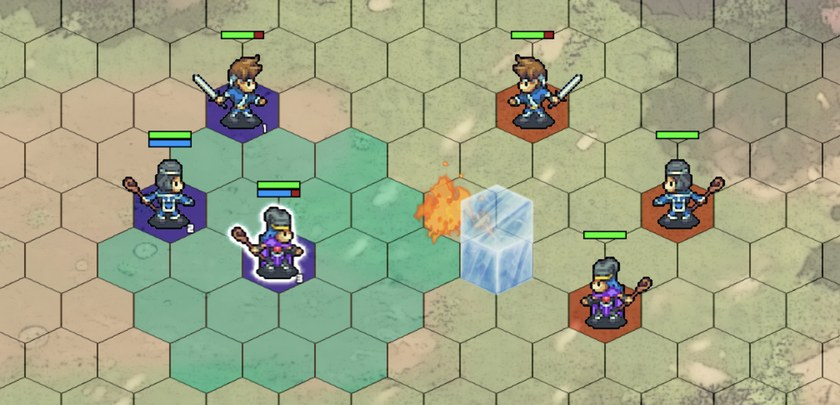
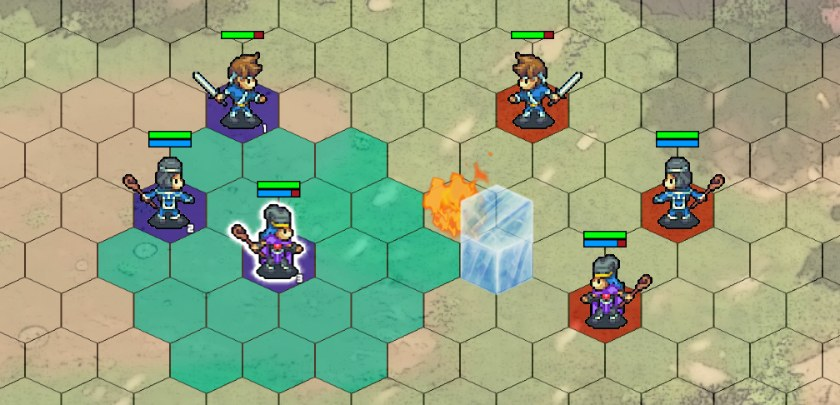
Show adversary mana bars (v0.8.0) (#82)
* Show adversary mana in combat and record public mana updates (v0.8.0)

* Exercise missing mana from older snapshots in desktop checks

* Initialize adversary spell lists so caster mana bars are visible

* Refresh guide illustration and remove temporary screenshot export

diff --git a/server/src/__tests__/actionValidation.test.ts b/server/src/__tests__/actionValidation.test.ts
@@ -87,7 +87,7 @@ afterEach(() => {
   finally {mock.restore();}
 });
 
-test('both teams disclose spell IDs in initial, reconnect, replay, and summoned-unit data', () => {
+test('both teams disclose spells and mana in initial, reconnect, replay, and summoned-unit data', () => {
   enemy.spells = [new Spell(getSpellById(8))];
   for (const reconnect of [false, true]) {
     for (const teamId of [1, 2]) {
@@ -95,12 +95,14 @@ test('both teams disclose spell IDs in initial, reconnect, replay, and summoned-
       expect(snapshot.player.team[0].spells).toEqual(teamId === 1 ? [0, 9] : [8]);
       expect(snapshot.opponent.team[0].spells).toEqual(teamId === 1 ? [8] : [0, 9]);
       expect(snapshot.opponent.team[0].inventory).toBeUndefined();
-      expect(snapshot.opponent.team[0].mp).toBeUndefined();
+      expect(snapshot.opponent.team[0].mp).toBe(100);
+      expect(snapshot.opponent.team[0].maxMP).toBe(100);
     }
   }
   game.saveInitialStateToReplay();
   expect(game.replayMessages[0].data.opponent.team[0].spells).toEqual([8]);
-  expect(enemy.getPlacementData(false).spells).toEqual([8]);
+  expect(enemy.getPlacementData(false)).toMatchObject({spells: [8], mp: 100, maxMP: 100});
+  expect(game.replayMessages[0].data.opponent.team[0]).toMatchObject({mp: 100, maxMP: 100});
 });
 
 const invalidActions = [
@@ -183,6 +185,8 @@ test('a valid spell spends MP once, locks the action during casting, and applies
   game.processAction('spell', data, socket);
   game.processAction('passTurn', null, socket);
   expect(player.getMP()).toBe(100 - player.spells[0].cost);
+  expect(game.replayMessages).toContainEqual(expect.objectContaining({event: 'manachange', data: {team: 1, num: 1, mp: player.getMP()}}));
+  expect(socket.emit).toHaveBeenCalledWith('mpchange', {num: 1, mp: player.getMP()});
   expect(player.hasActed).toBe(true);
   expect(player.team.actions).toBe(1);
   expect(player.team.spellCasts).toBe(1);
@@ -231,4 +235,25 @@ test('an attack that becomes movement and direct AI actions use the same accepta
   expect(enemy.hasActed).toBe(true);
   expect(enemy.team.actions).toBe(1);
   expect(game.turnSystem.processAction).toHaveBeenCalledTimes(2);
+});
+
+
+test('mana changes identify either team, reach the room and replay, and preserve legacy owner updates', () => {
+  const broadcast = spyOn(game, 'broadcast');
+  for (const team of [player.team, enemy.team]) {
+    game.emitMPchange(team, 1, 35);
+    expect(broadcast).toHaveBeenCalledWith('manachange', {team: team.id, num: 1, mp: 35});
+    expect(game.replayMessages.at(-1)).toMatchObject({event: 'manachange', data: {team: team.id, num: 1, mp: 35}});
+  }
+  expect(socket.emit).toHaveBeenCalledTimes(1);
+  expect(socket.emit).toHaveBeenCalledWith('mpchange', {num: 1, mp: 35});
+});
+
+test('Ether restoration is public and reconnect snapshots preserve the restored value', () => {
+  player.mp = 5;
+  player.inventory = [new Item(getConsumableById(1))];
+  game.processAction('useitem', {index: 0}, socket);
+  expect(player.mp).toBe(25);
+  expect(game.replayMessages).toContainEqual(expect.objectContaining({event: 'manachange', data: {team: 1, num: 1, mp: 25}}));
+  expect(game.getGameData(2, true).opponent.team[0]).toMatchObject({mp: 25, maxMP: 100});
 });

diff --git a/client/src/game/__tests__/enemyMana.test.ts b/client/src/game/__tests__/enemyMana.test.ts
@@ -1,0 +1,39 @@
+import {expect, test} from 'bun:test';
+import {readFileSync} from 'node:fs';
+import {runInNewContext} from 'node:vm';
+import ts from 'typescript';
+
+const source = ts.createSourceFile('Arena.ts', readFileSync(new URL('../Arena.ts', import.meta.url), 'utf8'), ts.ScriptTarget.Latest, true);
+const methods = source.statements.find(ts.isClassDeclaration)!.members
+  .filter(member => ['placeCharacter', 'processMPChange'].includes(member.name?.getText(source) ?? ''));
+const code = ts.transpileModule(`new class {${methods.map(method => method.getText(source)).join('\n')}}`, {
+  compilerOptions: {target: ts.ScriptTarget.ESNext},
+}).outputText;
+
+test('enemy placement retains its spells and mana updates target the correct team', () => {
+  class Player {
+    spells: number[] = [];
+    mp: number;
+    setSpells(spells: number[]) {this.spells = spells;}
+    setStatuses() {}
+    setMP(mp: number) {this.mp = mp;}
+  }
+  const arena = runInNewContext(code, {Player, serializeCoords: () => 'tile'});
+  arena.playerTeamId = 1;
+  arena.hexGridToPixelCoords = () => ({x: 0, y: 0});
+  arena.gridMap = new Map();
+  const members: Player[] = [];
+  const enemyTeam = {id: 2, getMembers: () => members, addMember: (player: Player) => members.push(player)};
+  arena.placeCharacter({spells: [8]}, enemyTeam, true);
+  expect(members[0].spells).toEqual([8]);
+  arena.placeCharacter({}, enemyTeam, true); // Older snapshots have no enemy spells or mana.
+  expect(members[1].spells).toEqual([]);
+  const ally = new Player();
+  arena.getPlayer = (team: number) => team === 1 ? ally : members[0];
+  arena.processMPChange({team: 2, num: 1, mp: 7});
+  expect(members[0].mp).toBe(7);
+  expect(ally.mp).toBeUndefined();
+  arena.processMPChange({num: 1, mp: 22});
+  expect(ally.mp).toBe(22);
+  expect(members[0].mp).toBe(7);
+});

diff --git a/client/src/game/Arena.ts b/client/src/game/Arena.ts
@@ -174,6 +174,7 @@ export class Arena extends Phaser.Scene
             hpchange: this.processHPChange,
             statuseffectchange: this.processStatusChange,
             mpchange: this.processMPChange,
+            manachange: this.processMPChange,
             useitem: this.processUseItem,
             cast: (data) => this.processCast(true, data),
             endcast: (data) => this.processCast(false, data),
@@ -787,10 +788,10 @@ export class Arena extends Phaser.Scene
         player?.setStatuses(statuses);
     }
 
-    processMPChange({num, mp}) {
+    processMPChange({team = this.playerTeamId, num, mp}) {
         if (this.gameEnded) return;
-        const player = this.getPlayer(this.playerTeamId, num);
-        player.setMP(mp);
+        const player = this.getPlayer(team, num);
+        player?.setMP(mp);
     }
 
     processUseItem({team, num, animation, name, sfx}) {
@@ -1422,8 +1423,8 @@ export class Arena extends Phaser.Scene
         if (isPlayer) {
             player.setDistance(character.distance);
             player.setInventory(character.inventory);
-            player.setSpells(character.spells);
         }
+        player.setSpells(character.spells ?? []);
         player.setStatuses(character.statuses);
 
         if (!isReconnect) {

diff --git a/client/src/components/GuidePage.tsx b/client/src/components/GuidePage.tsx
@@ -88,6 +88,7 @@ export default function GuidePage({onClose}: {onClose?: () => void}) {
               <img src={actions} width="960" height="110" loading="lazy" alt="The selected mage’s action bar with HP, MP, equipped Potion and Ether, learned spells, keyboard shortcuts, and the pass-turn hourglass." />
               <figcaption>Green is HP (health); blue is MP (magic). The bar shows what this character can use, not everything in your shared inventory.</figcaption>
             </figure>
+            <p>Blue mana bars show remaining MP for both teams. Watch enemy mana to judge which spells they can still afford; casting spends MP and Ether restores it.</p>
             <h3>A reliable opening plan</h3>
             <p>Let sturdy fighters approach first. Keep your healer out of easy melee range, leave space between allies against area spells, and concentrate damage on a vulnerable enemy.</p>
             <p>Check the order before committing: can an enemy finish your injured character before your healer acts? Sometimes a Potion now is worth more than another attack.</p>

diff --git a/client/src/components/HUD/Overview.tsx b/client/src/components/HUD/Overview.tsx
@@ -128,7 +128,7 @@ class Overview extends Component<Props, State> {
                   <div className="char_stats_bar" style={position === 'left' && { justifyContent: 'flex-start' }}>
                     <div className="char_stats_hp" style={{ width: `${(member.hp / member.maxHP) * 100}%` }}></div>
                   </div>
-                  {this.props.isPlayerTeam && <div className="char_stats_bar" style={position === 'left' && { justifyContent: 'flex-start' }}>
+                  {Number.isFinite(member.mp) && member.maxMP > 0 && <div className="char_stats_bar" style={position === 'left' && { justifyContent: 'flex-start' }}>
                     <div className="char_stats_mp" style={{ width: `${(member.mp / member.maxMP) * 100}%` }}></div>
                   </div>}
                 </div>

diff --git a/client/src/game/Player.ts b/client/src/game/Player.ts
@@ -102,7 +102,8 @@ export class Player extends Phaser.GameObjects.Container {
         this.add(this.healthBar);
         this.setHP(hp);
 
-        if (isPlayer) {
+        // Older snapshots/replays omit enemy mana; do not invent a bar for them.
+        if (Number.isFinite(mp) && Number.isFinite(maxMP) && maxMP > 0) {
             this.MPBar = new HealthBar(scene, 0, -40, 0x0099ff);
             this.add(this.MPBar);
             this.setMP(mp);
@@ -785,7 +786,7 @@ export class Player extends Phaser.GameObjects.Container {
     setMP(mp) {
         const _mp = this.mp
         this.mp = mp;
-        this.MPBar.setHpValue(mp / this.maxMP);
+        this.MPBar?.setHpValue(mp / this.maxMP);
 
         if(this.mp !== _mp) {
             this.arena.refreshUI(this.num);

diff --git a/server/src/ServerPlayer.ts b/server/src/ServerPlayer.ts
@@ -114,6 +114,8 @@ export class ServerPlayer {
             y: this.y,
             hp: this.hp,
             maxHP: this.getStat(Stat.HP),
+            mp: this.mp,
+            maxMP: this.getStat(Stat.MP),
             statuses: this.statuses,
             class: this.class,
             level: this.level,
@@ -121,8 +123,6 @@ export class ServerPlayer {
             spells: this.getNetworkSpells(),
         }
         if (includePersonal) {
-            data['mp'] = this.mp;
-            data['maxMP'] = this.getStat(Stat.MP);
             data['distance'] = this.distance;
             data['inventory'] = this.getNetworkInventory();
             data['xp'] = this.xp;

diff --git a/server/src/Game.ts b/server/src/Game.ts
@@ -1239,6 +1239,8 @@ export abstract class Game
     }
 
     emitMPchange(team: Team, num: number, mp: number) {
+        this.broadcast('manachange', {team: team.id, num, mp});
+        // Installed clients treat mpchange as own-team only. Keep that contract.
         team.socket?.emit('mpchange', {
             num,
             mp,
